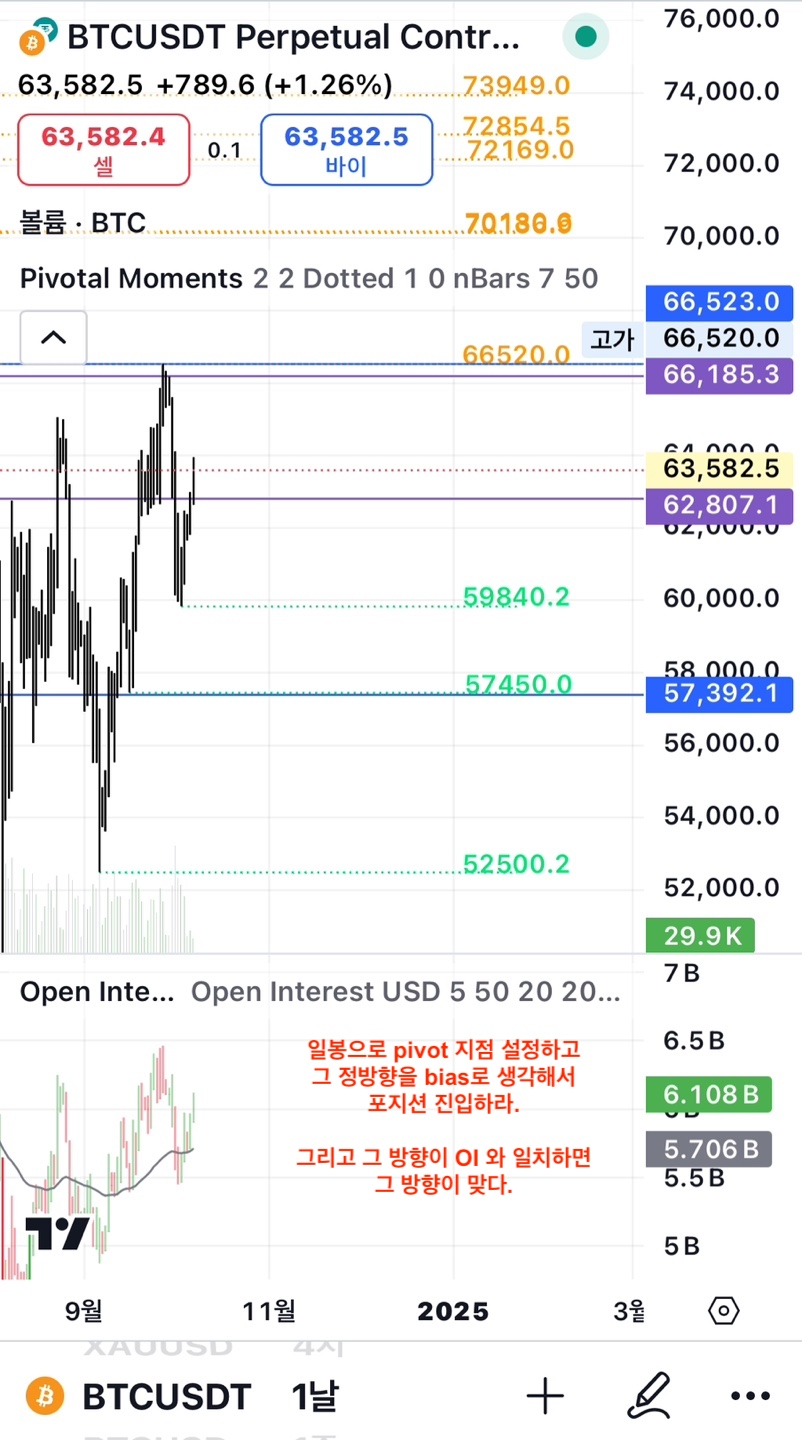
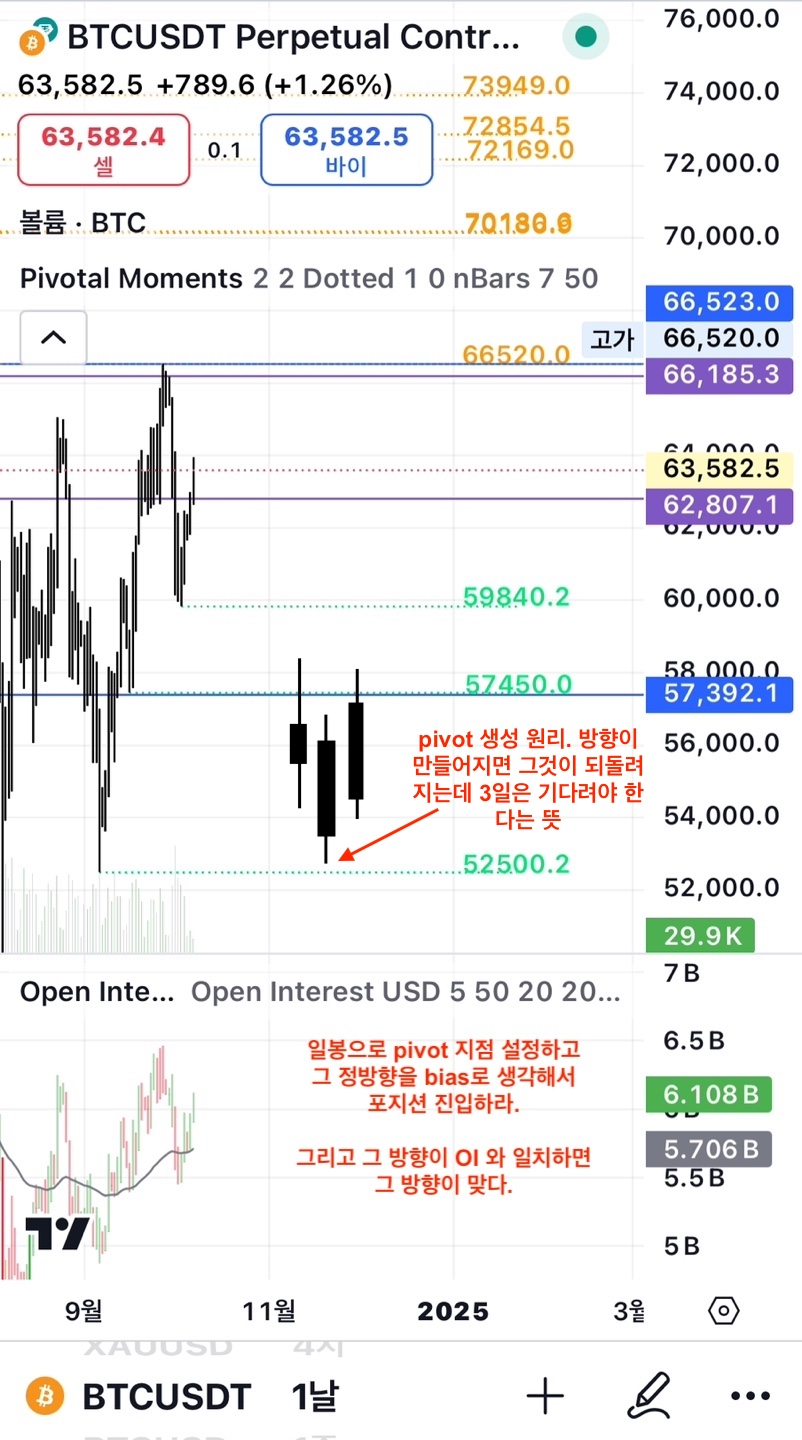
“update”

Changed region(s): [[0.3429, 0.4688, 0.8105, 0.5938]]

diff --git a/_posts/2024/2024-10-09-Oct1-Wed.md b/_posts/2024/2024-10-09-Oct1-Wed.md
@@ -1,0 +1,17 @@
+---
+type: "coin"
+heading : "Oct1 Wed"
+duration: "2024.Oct.09"
+
+
+---
+ 
+
+
+[big picture 1D Wed 3pm narrative (링크)](/todo/images/big-2024-10-09-3PM.png)  
+[trend 4h Wed 3pm narrative (링크)](/todo/images/trend-2024-10-09-3PM.png)  
+[time 1d Wed 3pm narrative (링크)](/todo/images/time-2024-10-09-3PM.png)  
+[OI 2h Wed 3pm narrative (링크)](/todo/images/OI-2024-10-09-3PM.png)    
+
+
+
